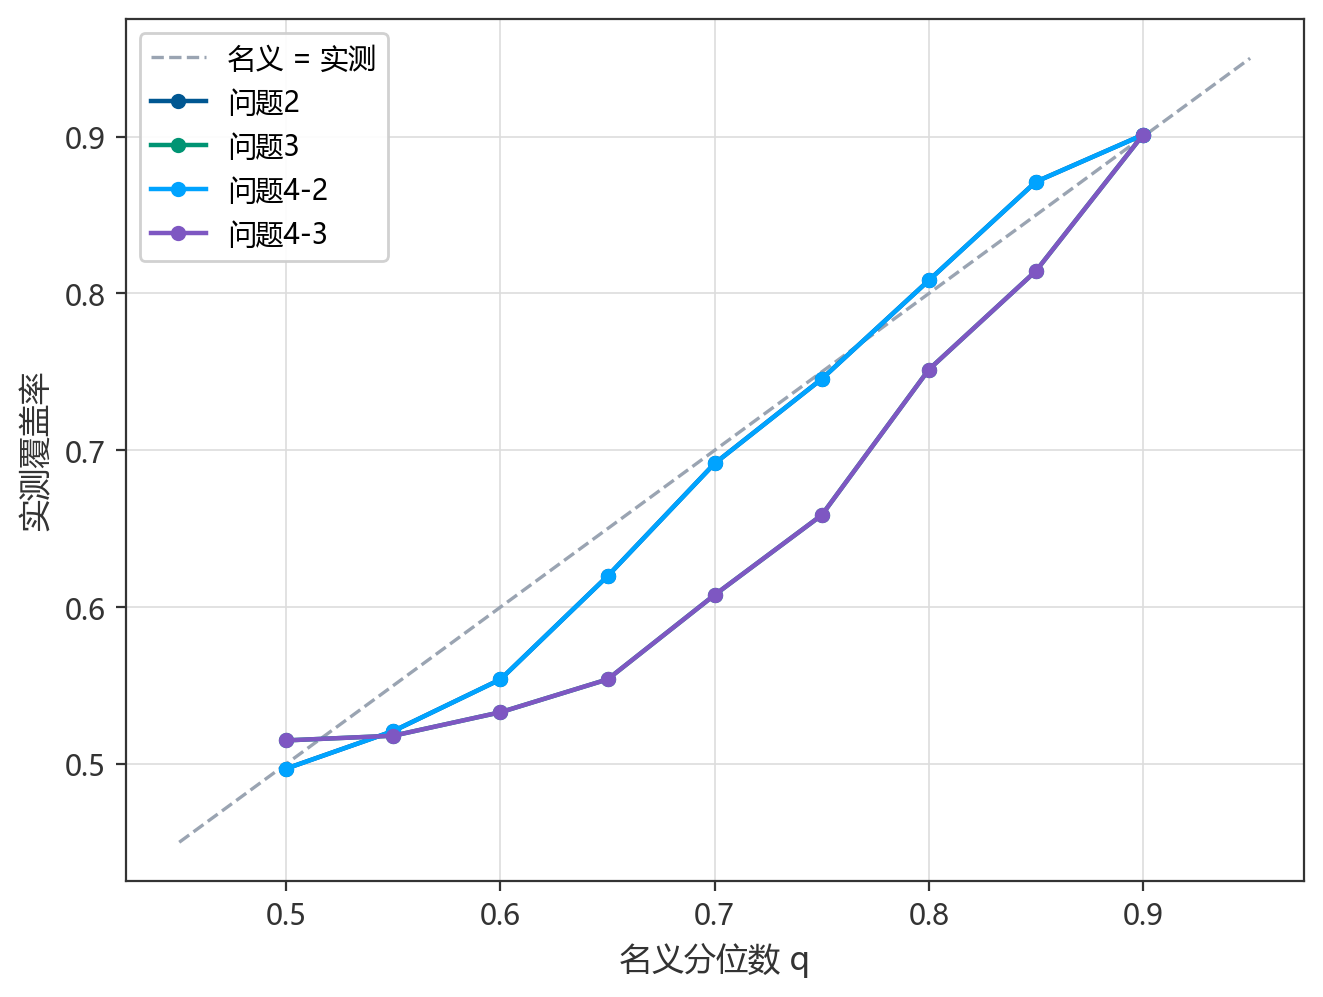
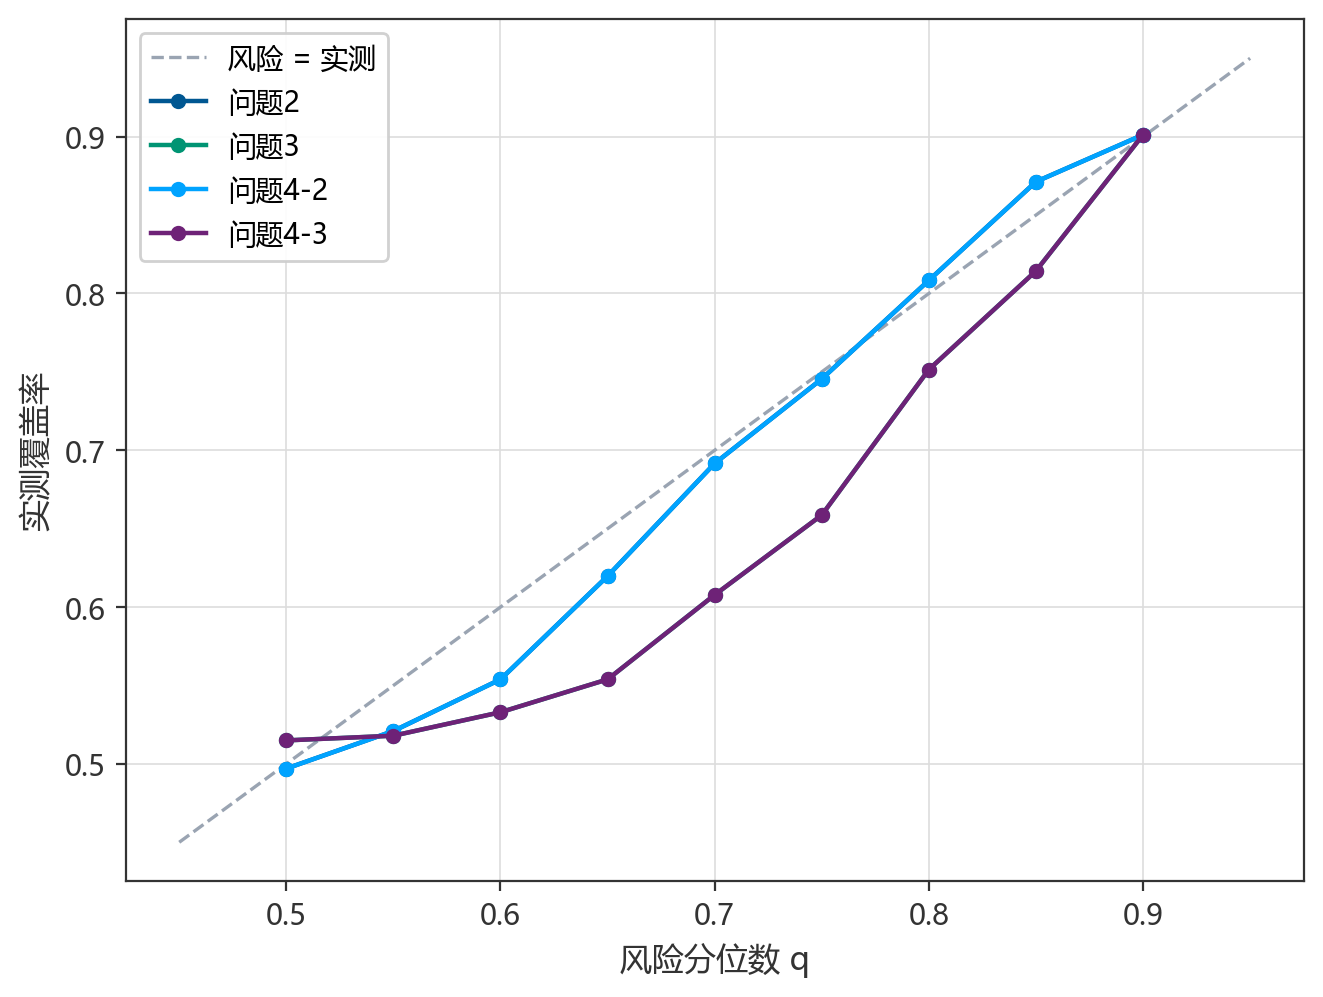
更新 C 题出图脚本与结果图：Q2-4 改双栏、Q3-2 改四格承诺路径、Q3-5 改四格费用构成
plot_style：C_PURPLE 由 #7E57C2 改为深紫 #6E2277。

Q2-4 改上下双栏（储电量范围 + 日储备 R）；Q3-2 改 2×2 指定日期面板并修掉中间标签重叠（图宽 11.2→11.8，列间距 0.30→0.45）；Q3-5 改 2×2 四类费用分格且四格统一填充。同步重出 17 张图。

diff --git a/CUMCM2026_C/代码/共享/出图数据/plot_result_figures.py b/CUMCM2026_C/代码/共享/出图数据/plot_result_figures.py
@@ -27,6 +27,7 @@ from pathlib import Path
 import matplotlib
 matplotlib.use("Agg")
 import matplotlib.pyplot as plt
+from matplotlib.lines import Line2D
 import numpy as np
 import pandas as pd
 
@@ -45,6 +46,8 @@ from plot_style import (C_MAIN, C_SECOND, C_FOURTH, C_RED_LIGHT,   # noqa: E402
 apply_base_style()
 
 TO_KW = 6.0                                     # 十分钟电量 → 平均功率
+C_THIRD = "#DDCC77"                             # 沙黄 · 首次承诺 x0
+C_FIFTH = "#9D2B2B"                             # 深红 · 第五档
 TAGS = {"Q2": "reserve-mpc", "Q3": "exact-greedy",
         "Q4-2": "reserve-mpc", "Q4-3": "exact-greedy"}
 LABEL = {"Q2": "问题2", "Q3": "问题3", "Q4-2": "问题4-2", "Q4-3": "问题4-3"}
@@ -203,27 +206,34 @@ def q2_3(four):  # noqa: ARG001
 
 
 def q2_4(four):  # noqa: ARG001
-    """SOC 范围与日储备。检查储能是否越界、储备 R 是否被上限截断。"""
+    """SOC 范围与日储备。上栏看储能是否越界，下栏看储备 R 的水平。"""
     s = tab("Q2", "SOC范围与储备")
     x = pd.to_datetime(s["date"])
-    fig, ax = plt.subplots(figsize=(13, 4.6))
-    ax.fill_between(x, s.soc_min_kwh, s.soc_max_kwh, color=C_MAIN, alpha=0.22,
-                    label="当日 SOC 范围")
-    ax.plot(x, s.end_soc_kwh, color=C_MAIN, linewidth=1.3, label="日末储电量")
-    ax.axhline(1200, color=C_GUIDE, linewidth=0.9, linestyle="--")
-    ax.axhline(10800, color=C_GUIDE, linewidth=0.9, linestyle="--")
-    ax.set_ylim(0, 12000)
-    ax.set_ylabel("储电量 / kWh", color=C_TEXT)
-    ax.set_xlabel("日期", color=C_TEXT)
-    axr = ax.twinx()
-    axr.plot(x, s.reserve_kwh, color=C_SECOND, linewidth=1.3, label="安全余量 R（右轴）")
-    axr.axhline(4800, color=C_RED_LIGHT, linewidth=0.9, linestyle="--")
-    axr.set_ylabel("安全余量 / kWh", color=C_TEXT)
-    style_frame_grid(ax)
-    style_frame_grid(axr, grid=False, frame=False)
-    h1, l1 = ax.get_legend_handles_labels()
-    h2, l2 = axr.get_legend_handles_labels()
-    ax.legend(h1 + h2, l1 + l2, loc="upper left", ncol=2, framealpha=0.9)
+    e_min = float(s["E_min_kwh"].iloc[0])
+    e_max = float(s["E_max_kwh"].iloc[0])
+
+    fig, (ax1, ax2) = plt.subplots(2, 1, figsize=(9.6, 6.0), sharex=True,
+                                   gridspec_kw={"height_ratios": [1.35, 1]})
+    ax1.fill_between(x, s.soc_min_kwh, s.soc_max_kwh, color=C_SECOND, alpha=0.25,
+                     label="日内储电量范围")
+    ax1.plot(x, s.end_soc_kwh, color=C_PURPLE, linewidth=2.0, label="24:00 储电量")
+    ax1.axhline(e_max, color=C_GUIDE, linewidth=1.4, linestyle="--")
+    ax1.axhline(e_min, color=C_GUIDE, linewidth=1.4, linestyle="--")
+    ax1.text(x.iloc[2], e_max + 350, f"上限 {e_max:.0f}", fontsize=9.5,
+             color="#78859F", va="bottom")
+    ax1.text(x.iloc[2], e_min + 120, f"下限 {e_min:.0f}", fontsize=9.5,
+             color="#78859F", va="bottom")
+    ax1.set_ylim(0, 11800)
+    ax1.set_ylabel("储电量 / kWh", color=C_TEXT)
+    ax1.legend(loc="lower left", framealpha=0.9, fontsize=10,
+               bbox_to_anchor=(0.008, 0.20), borderaxespad=0)
+    style_frame_grid(ax1)
+
+    ax2.plot(x, s.reserve_kwh, color=C_MAIN, linewidth=1.6)
+    ax2.set_ylabel("日储备 R / kWh", color=C_TEXT)
+    ax2.set_xlabel("日期", color=C_TEXT)
+    style_frame_grid(ax2)
+
     save(fig, CHARTS / "问题2" / "Q2-4_SOC范围与日储备.png")
 
 
@@ -262,25 +272,39 @@ def q3_1(four):  # noqa: ARG001
 def q3_2(four):
     """四个指定日期的 x0→x3 承诺修订过程。"""
     d = tab("Q3", "四个指定日期_调度")
-    fig = plt.figure(figsize=(13, 7))
-    axes = four_dates_grid(fig, four)
+    fig, axes = plt.subplots(2, 2, figsize=(11.8, 7.0))
     for ax, date in zip(axes.ravel(), four):
-        g = d[d.date == date]
-        h = hours(len(g))
-        ax.plot(h, g.x0_kwh * TO_KW, color=C_GUIDE, linewidth=1.5,
+        g = d[d.date == date].sort_values("t")
+        x = hours(len(g)) + 1.0 / 12.0          # 十分钟时段的中间时刻
+        ax.plot(x, g.L_actual_kw, color=C_SECOND, linewidth=1.8, label="负载")
+        ax.plot(x, g.P_act_kw, color=C_FOURTH, linewidth=1.8, label="光伏")
+        ax.step(x, g.x0_kwh * TO_KW, color=C_THIRD, linewidth=1.6, where="mid",
                 label="首次承诺 x0")
-        ax.plot(h, g.x3_kwh * TO_KW, color=C_MAIN, linewidth=1.6,
+        ax.step(x, g.x3_kwh * TO_KW, color=C_MAIN, linewidth=1.6, where="mid",
                 label="最终承诺 x3")
-        ax.plot(h, g.L_actual_kw, color=C_SECOND, linewidth=1.0,
-                alpha=0.75, label="小区负载")
+        ax.set_xlim(0, 24)
+        ax.set_xticks(range(0, 25, 4))
+        ax.set_title(str(date), fontsize=11, color=C_TEXT, loc="left")
+        ax.set_xlabel("时刻 / h", color=C_TEXT, fontsize=10)
         ax.set_ylabel("功率 / kW", color=C_TEXT, fontsize=10)
+        style_frame_grid(ax)
+
         axr = ax.twinx()
-        axr.plot(h, g.E_end_kwh, color=C_FOURTH, linewidth=1.3, label="储电量")
+        axr.plot(x, g.E_end_kwh, color=C_PURPLE, linewidth=1.6, linestyle="--",
+                 label="SOC（右轴）")
         axr.set_ylim(0, 12000)
         axr.set_ylabel("储电量 / kWh", color=C_TEXT, fontsize=10)
-        style_frame_grid(axr, grid=False, frame=False)
-    axes[0, 0].legend(loc="upper left", fontsize=9, framealpha=0.9)
-    fig.supxlabel("时刻", color=C_TEXT)
+        style_frame_grid(axr, grid=False, frame=True)
+
+    handles = [Line2D([], [], color=C_SECOND, linewidth=1.8, label="负载"),
+               Line2D([], [], color=C_FOURTH, linewidth=1.8, label="光伏"),
+               Line2D([], [], color=C_THIRD, linewidth=1.6, label="首次承诺 x0"),
+               Line2D([], [], color=C_MAIN, linewidth=1.6, label="最终承诺 x3"),
+               Line2D([], [], color=C_PURPLE, linewidth=1.6, linestyle="--",
+                      label="SOC（右轴）")]
+    fig.legend(handles=handles, loc="upper center", ncol=5, frameon=False,
+               fontsize=10, bbox_to_anchor=(0.5, 0.995))
+    fig.subplots_adjust(top=0.90, hspace=0.45, wspace=0.45)
     save(fig, CHARTS / "问题3" / "Q3-2_四个指定日期调度.png")
 
 
@@ -342,21 +366,26 @@ def q3_4(four):  # noqa: ARG001
 
 
 def q3_5(four):  # noqa: ARG001
-    """逐日费用构成。看四类费用各占多少、费用是否被超购/违约推高。"""
+    """逐日费用构成。四类费用各占一张，看谁在波动、谁在主导。"""
     b = tab("Q3", "表B_逐日")
     x = pd.to_datetime(b["date"])
-    parts = [("base_cost_yuan", C_MAIN, "基础购电费"),
-             ("overbuy_cost_yuan", C_RED_LIGHT, "超购费（1.5 倍）"),
-             ("breach_cost_yuan", C_SECOND, "违约费（0.5 倍）"),
-             ("emergency_cost_yuan", C_PURPLE, "紧急购电费（5 倍）")]
-    fig, ax = plt.subplots(figsize=(13, 4.8))
-    ax.stackplot(x, *[b[c].values / 1e4 for c, _, _ in parts],
-                 colors=[c for _, c, _ in parts],
-                 labels=[n for _, _, n in parts], alpha=0.9)
-    ax.set_ylabel("费用 / 万元", color=C_TEXT)
-    ax.set_xlabel("日期", color=C_TEXT)
-    ax.legend(loc="upper left", ncol=4, framealpha=0.9, fontsize=9.5)
-    style_frame_grid(ax)
+    parts = [("基准购电费", "base_cost_yuan", C_MAIN),
+             ("超购费", "overbuy_cost_yuan", C_SECOND),
+             ("违约费", "breach_cost_yuan", C_THIRD),
+             ("紧急购电费", "emergency_cost_yuan", C_FIFTH)]
+
+    fig, axes = plt.subplots(2, 2, figsize=(11.2, 7.0), sharex=True)
+    for ax, (name, col, color) in zip(axes.ravel(), parts):
+        v = b[col].to_numpy(float)
+        ax.fill_between(x, 0, v, color=color, alpha=0.25)
+        ax.plot(x, v, color=color, linewidth=1.3)
+        ax.set_title(f"{name}（全年合计 {v.sum():.4g} 元）", fontsize=10,
+                     color=C_TEXT, loc="left")
+        ax.set_ylabel("日费用 / 元", color=C_TEXT, fontsize=10)
+        style_frame_grid(ax)
+    for ax in axes[1]:
+        ax.set_xlabel("日期", color=C_TEXT, fontsize=10)
+    fig.subplots_adjust(hspace=0.32, wspace=0.24)
     save(fig, CHARTS / "问题3" / "Q3-5_逐日费用构成.png")
 
 

diff --git a/CUMCM2026_C/代码/问题1/plot_style.py b/CUMCM2026_C/代码/问题1/plot_style.py
@@ -11,7 +11,7 @@
     C_FOURTH    #009473  青绿   光伏、充电功率、Q3
     C_RED_LIGHT #E57373  浅红   放电功率
     C_GUIDE     #9AA4B2  灰蓝   参考线（零线、SOC 上下限、基准线）
-    C_PURPLE    #7E57C2  紫色   紧急购电、Q4-3
+    C_PURPLE    #6E2277  深紫   紧急购电、Q4-3
     C_TEXT      #333333  深灰   坐标轴刻度与标签
     C_FRAME     #333333  深灰   坐标框线
     C_GRID      #DDDDDD  浅灰   内部网格
@@ -37,7 +37,7 @@ C_SECOND    = "#00A3FF"     # 亮蓝 · 次色
 C_FOURTH    = "#009473"     # 青绿 · 第四档
 C_RED_LIGHT = "#E57373"     # 浅红
 C_GUIDE     = "#9AA4B2"     # 灰蓝 · 参考线
-C_PURPLE    = "#7E57C2"     # 紫
+C_PURPLE    = "#6E2277"     # 深紫
 C_TEXT      = "#333333"     # 刻度与标签
 C_FRAME     = "#333333"     # 坐标框线
 C_GRID      = "#DDDDDD"     # 内部网格
